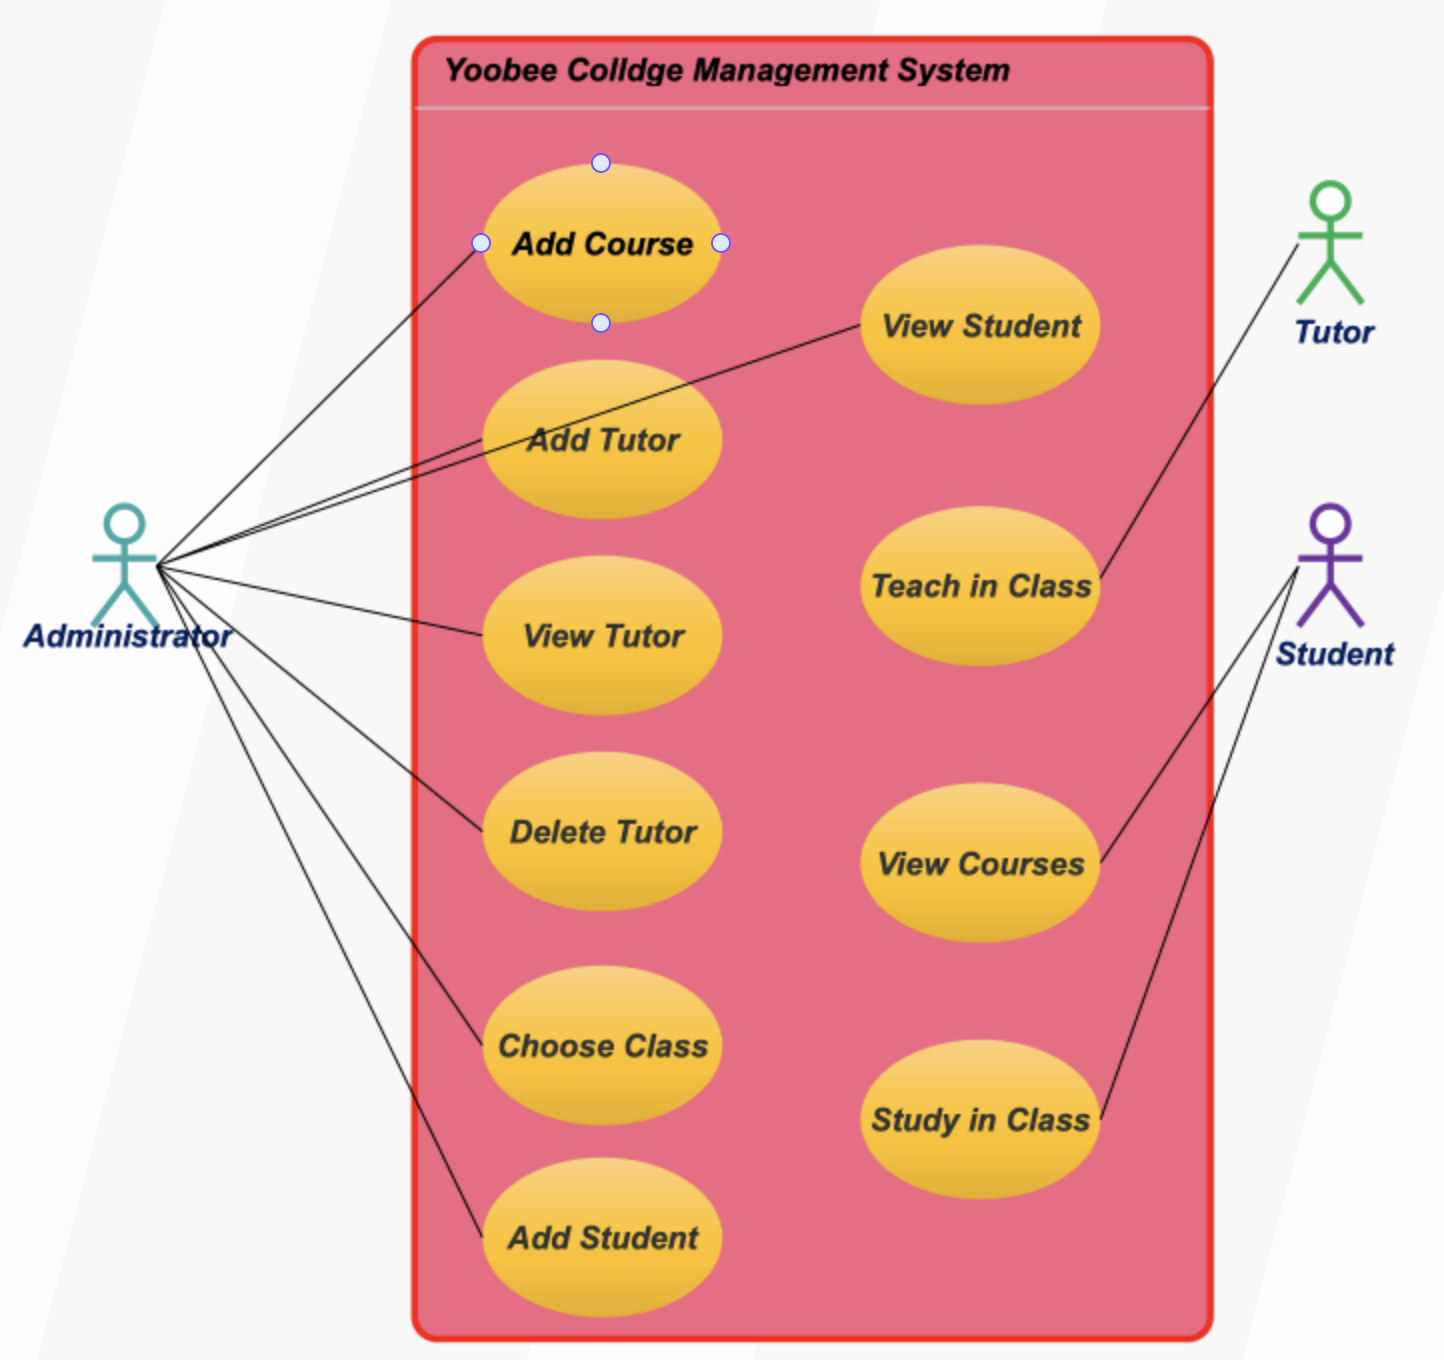
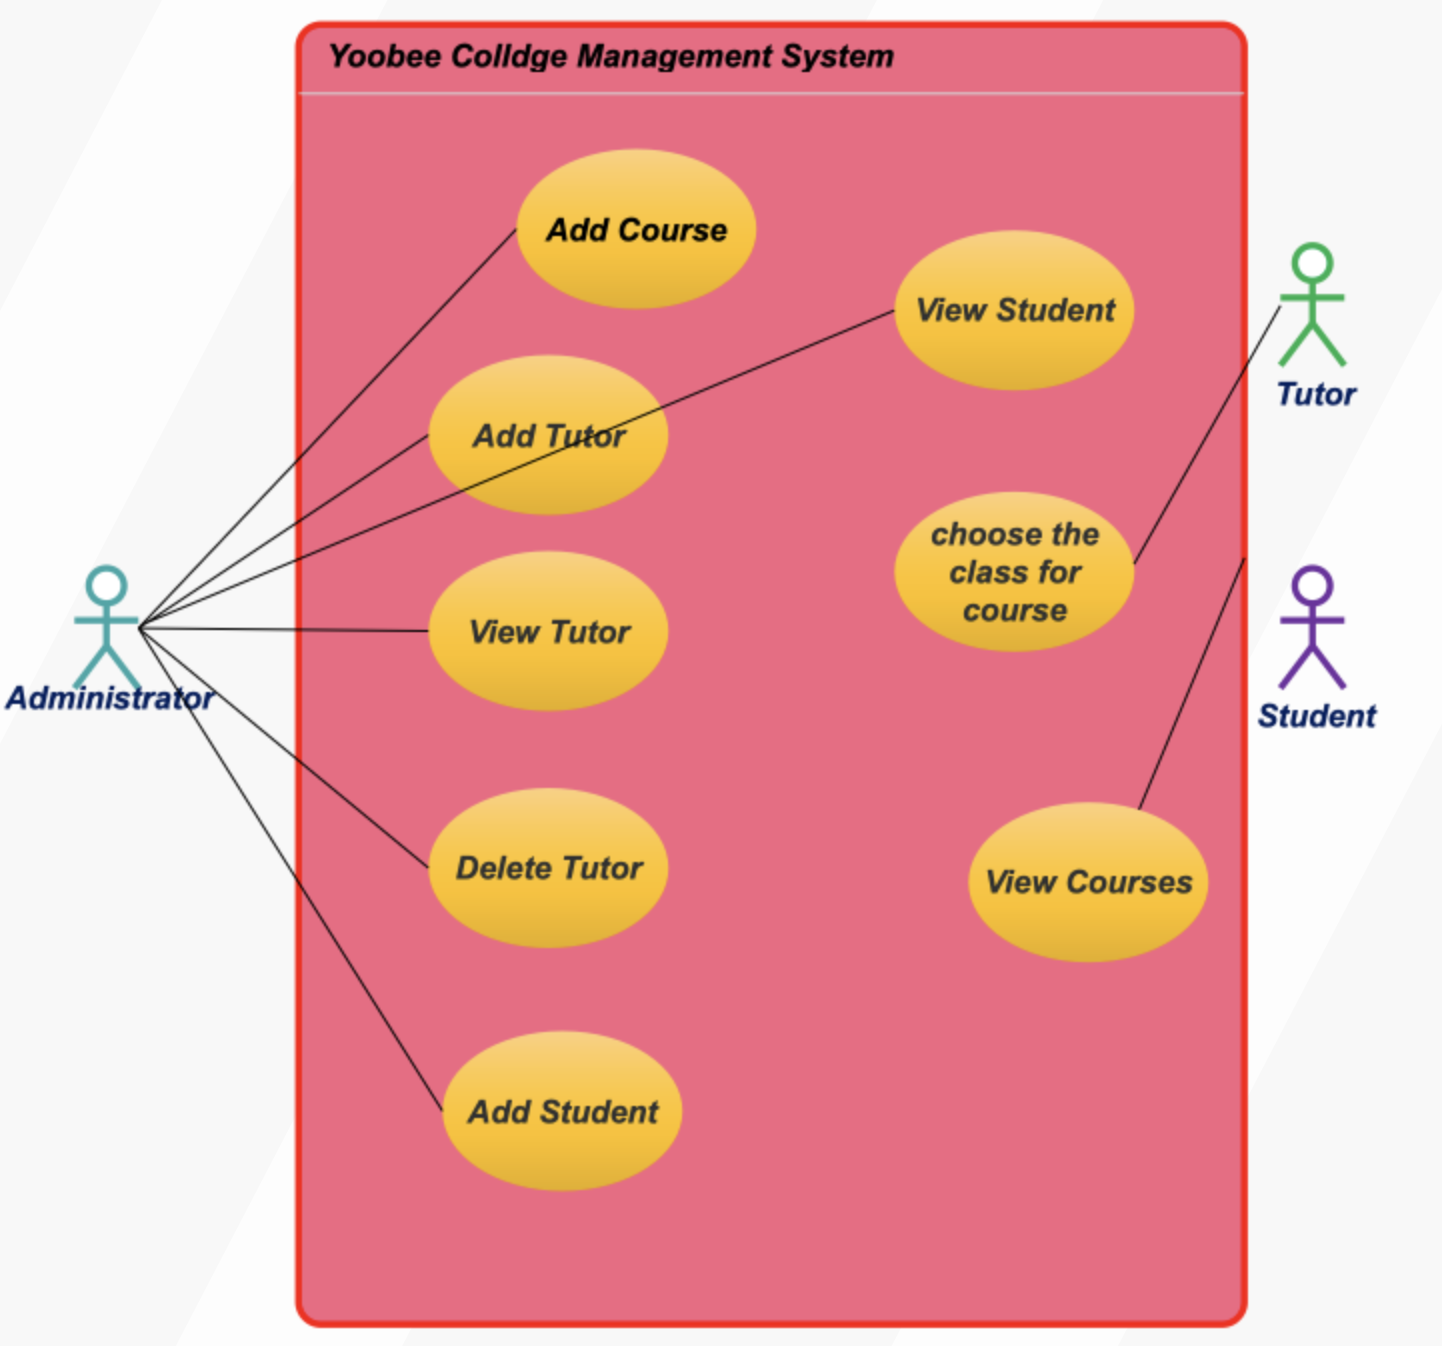
Finish W4A1

diff --git a/Week4/act1 Design_use_case_diagram.md b/Week4/act1 Design_use_case_diagram.md
@@ -1,0 +1,69 @@
+# Yoobee College Use Case Design
+
+---
+
+##  1. Project Scope
+
+Yoobee College offers a variety of courses for students, including **Design**, **Technology**, **Animation**, **Film**, and **Marketing**.  
+To support the management of academic data, a centralized **database system** is needed.  
+This system will store and organize information about **students**, **tutors**, **classes**, and **enrollments**.
+
+**Goals:**
+- Clearly represent relationships between entities  
+- Improve data accessibility  
+- Reduce errors caused by manual record-keeping  
+
+---
+
+## 2. Actors
+
+| Actor           | Description                                        |
+|------------------|----------------------------------------------------|
+| **Administrator** | Manages system data (courses, tutors, students)   |
+| **Tutor**         | Views course/class info, assists with assignments |
+| **Student**       | Views available courses and enrolls               |
+
+---
+
+## 3. Use Cases
+
+| Use Case                     | Actor          |
+|------------------------------|----------------|
+| Add course                   | Administrator  |
+| Add tutor                    | Administrator  |
+| View tutor                   | Administrator  |
+| Delete tutor                 | Administrator  |
+| Add student                  | Administrator  |
+| View student                 | Administrator  |
+| Choose the class for course | Tutor          |
+| View all courses             | Student        |
+
+---
+
+## 4. Use Case Diagrams
+
+### First Diagram – Administrator Use Cases
+
+![FirstUML](act1%20UML.png)
+
+### Second Diagram – Tutor & Student Use Cases
+
+![SecUML](act1%20UML-2.png)
+
+---
+
+## 5. Use Case Descriptions (Brief)
+
+| Use Case                     | Brief Description                                   |
+|------------------------------|-----------------------------------------------------|
+| **Add course**               | Administrator adds course to the system            |
+| **Add tutor**                | Administrator assigns tutor to a class             |
+| **View tutor**               | Administrator views the tutor(s) of a class        |
+| **Delete tutor**             | Administrator removes tutor from a class           |
+| **Add student**              | Administrator adds student to a class              |
+| **View student**             | Administrator views student(s) in a class          |
+| **Choose the class for course** | Tutor selects class assigned to a course     |
+| **View all courses**         | Student browses all available courses              |
+
+---
+
